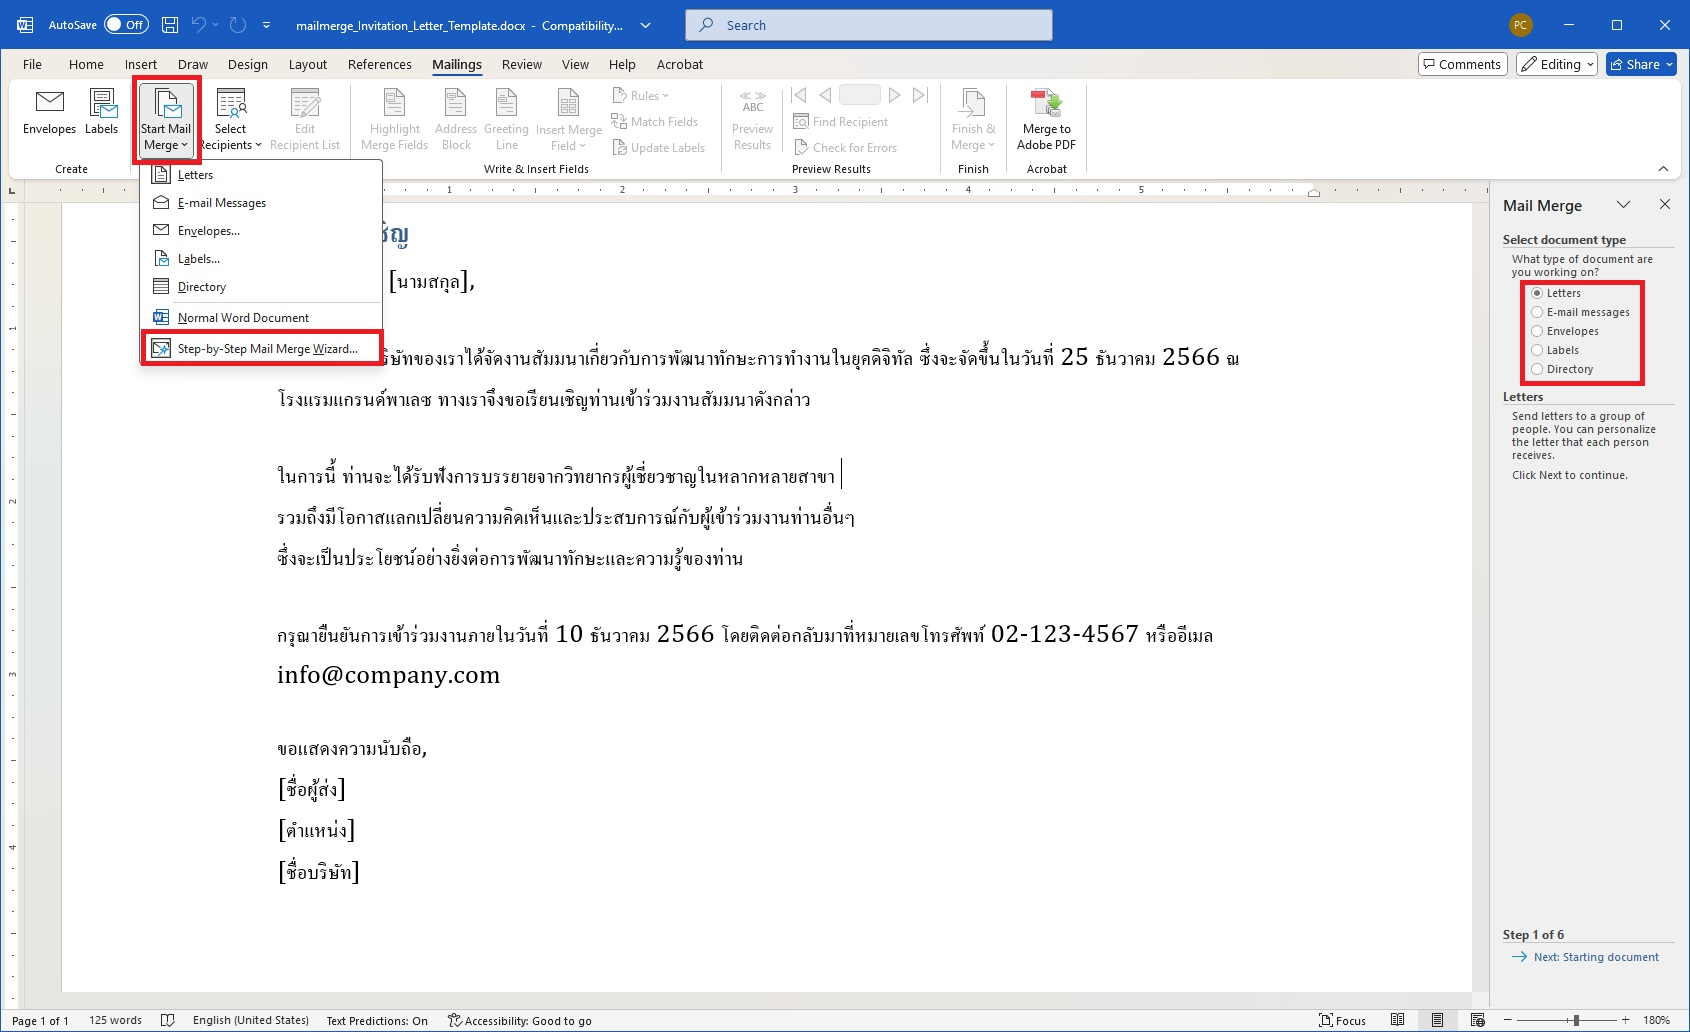
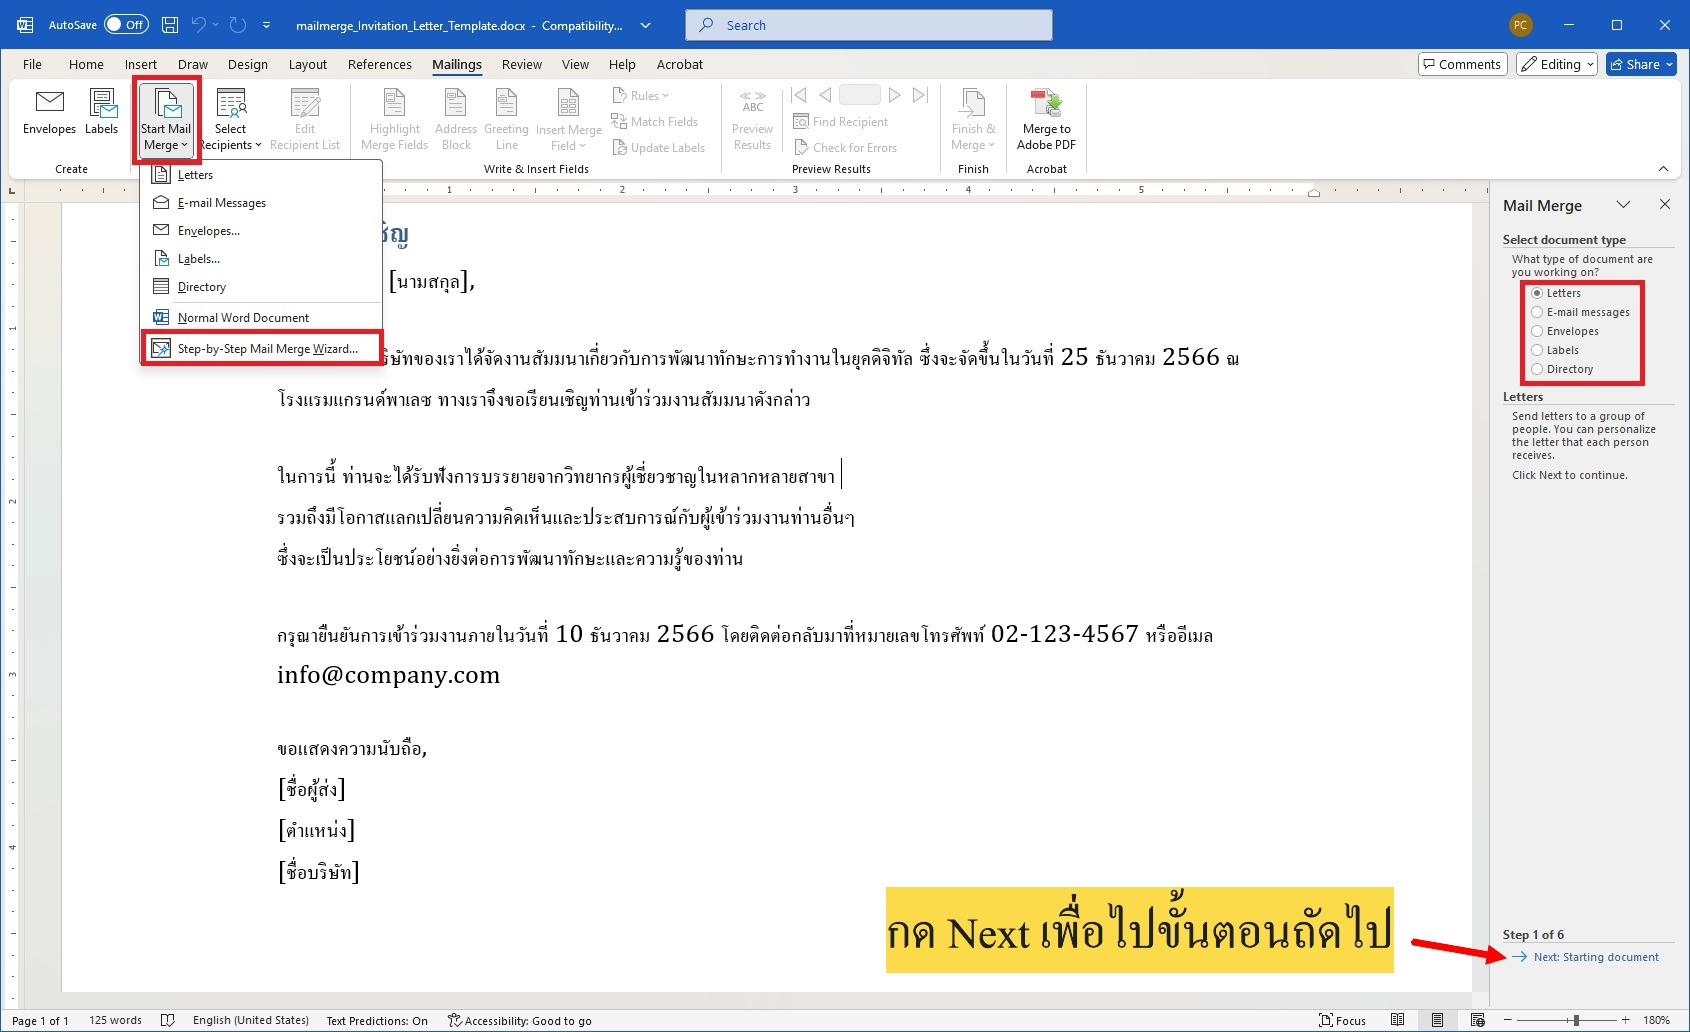
feat: update mail merge image

Changed region(s): [[0.5231, 0.8372, 0.8923, 0.9612]]

diff --git a/docs/msoffice/word/mailmerge.md b/docs/msoffice/word/mailmerge.md
@@ -1,4 +1,4 @@
-# Mail Merge ส่งอีเมลชุด จกหมายเวียน ได้รวดเร็ว
+# Mail Merge ส่งอีเมลคราวเดียว จดหมายเวียน ได้รวดเร็ว
 
 ## 1. บทนำ
 
@@ -61,26 +61,32 @@ Mail Merge คือฟังก์ชันที่ช่วยสร้าง
 ### เลือกแม่แบบ
 1. เลือกแม่แบบเอกสารที่ต้องการใช้ (Template) หรือสร้างใหม่
 2. เลือกแม่แบบจากไฟล์ปัจจุบัน
+![StartMailMErge](./assets/mailmerge_howto_2.jpg)
 
 ### การเลือกแหล่งข้อมูล
 
 1.  เลือกไฟล์ข้อมูลที่เตรียมไว้
 2.  เลือกตารางหรือแผ่นงานที่ต้องการใช้
+![StartMailMErge](./assets/mailmerge_howto_3_1.jpg)
+![StartMailMErge](./assets/mailmerge_howto_3_2.jpg)
 
 ### การแทรก Field
 
 1.  แทรก Field จากไฟล์ข้อมูลลงในเอกสาร
 2.  จัดรูปแบบ Field ให้เหมาะสม
+![StartMailMErge](./assets/mailmerge_howto_4.jpg)
 
 ### การ Preview ผลลัพธ์
 
 1.  ดูตัวอย่างเอกสารก่อนที่จะสร้างจริง
 2.  แก้ไขข้อมูลหรือ Field ที่ผิดพลาด
+![StartMailMErge](./assets/mailmerge_howto_5.jpg)
 
 ### การสร้างเอกสาร
 
 1.  สร้างเอกสารทั้งหมด
 2.  เลือกที่จะสร้างเอกสารใหม่, พิมพ์, หรือส่งอีเมล
+![StartMailMErge](./assets/mailmerge_howto_6.jpg)
 
 
 ## 4. ตัวอย่างการนำไปใช้
